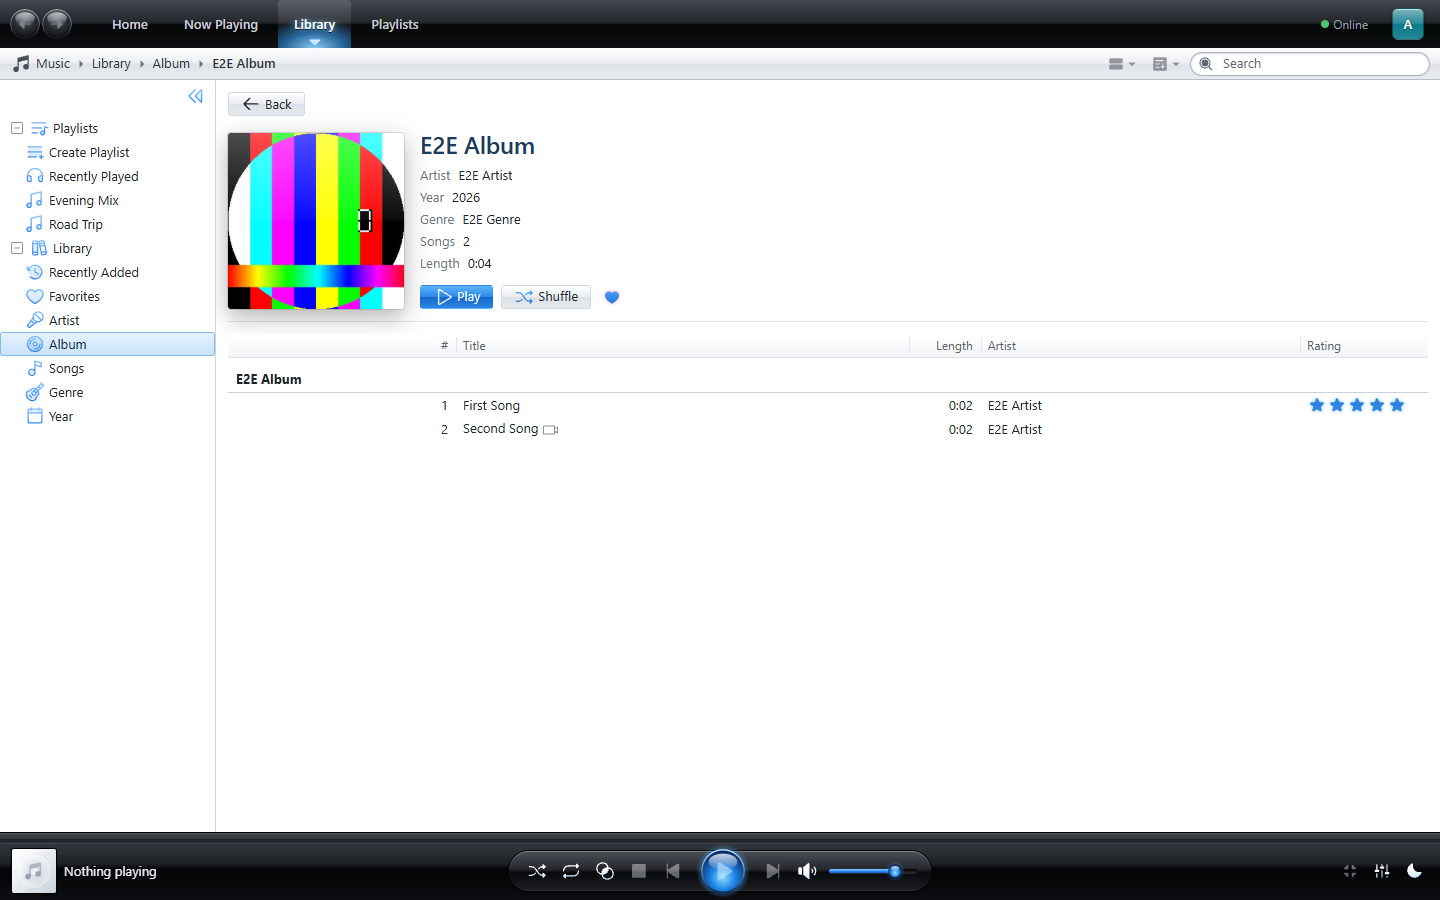
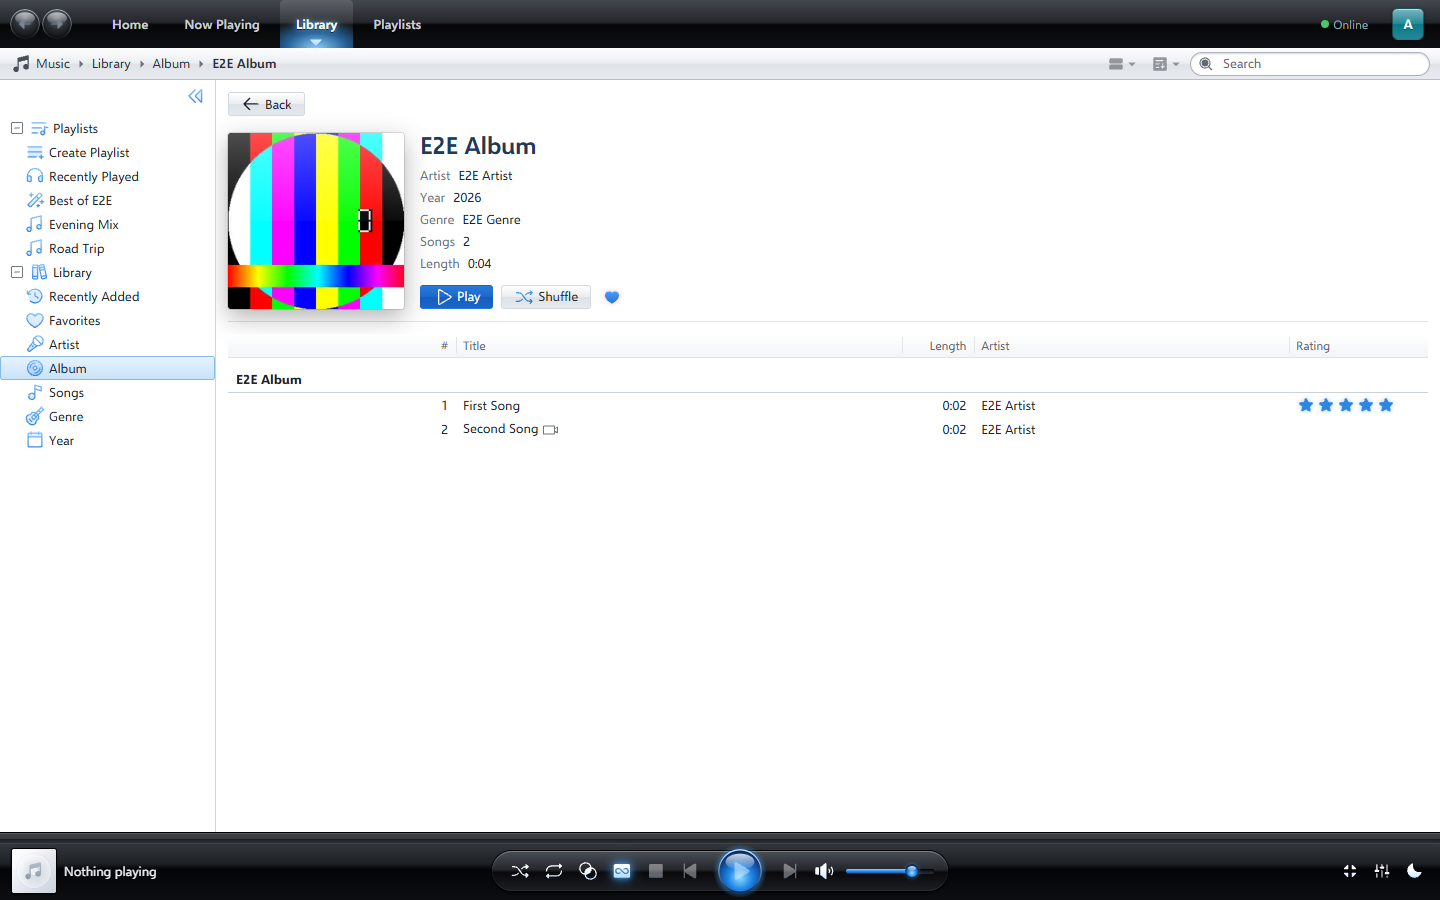
WMP-94: M7 add screenshots of newer features to the README
New README screenshots of the context menu with the rating submenu, a smart playlist, the mini player and adding a media folder; Now Playing shows autoplay. All README screenshots are taken again from a fresh instance. The README also describes clearing the playback state, the media folder filter of genres and years and soft hyphens for translators.

Closes #95

Claude-Session: https://claude.ai/code/session_011yGJ1E3bJeiX54p6natAu7

diff --git a/tests/WaveMP.E2E/screenshots/readme.screenshots.ts b/tests/WaveMP.E2E/screenshots/readme.screenshots.ts
@@ -25,9 +25,9 @@ import {
 } from './helpers'
 
 // The screenshots of the README, taken with the synthetic test media (sine tones and test pictures)
-// and two profiles created for them: Alex with playlists, favorites, ratings and plays, and Sam.
-// They are written to assets/screenshots and replace the files there; the profiles and the export of
-// the database made for the backup page are removed afterwards.
+// and two profiles created for them: Alex with playlists, a smart playlist, favorites, ratings and
+// plays, and Sam. They are written to assets/screenshots and replace the files there; the profiles
+// and the export of the database made for the backup page are removed afterwards.
 
 const outputDirectory = screenshotsDirectory
 const desktop = { width: 1440, height: 900 }
@@ -38,6 +38,19 @@ test.use({ storageState: emptyStorageState, viewport: desktop, deviceScaleFactor
 let alex: TestUser
 let sam: TestUser
 let alexHeaders: Record<string, string>
+
+/**
+ * Closes the offer to continue the playback of an earlier test, which runs in its own browser and
+ * so counts as another device.
+ */
+async function dismissResume(page: Page): Promise<void> {
+    const notice = part(page, 'resume-notice')
+    await notice.waitFor({ timeout: 3000 }).catch(() => undefined)
+    if (await notice.isVisible()) {
+        await notice.locator("[data-part='btn-dismiss-resume']").click()
+        await expect(notice).toBeHidden()
+    }
+}
 
 async function save(page: Page, name: string): Promise<void> {
     await saveAs(page, `${outputDirectory}${name}`)
@@ -58,6 +71,17 @@ test.beforeAll(async ({ request }) => {
     ;[alex, sam] = await createProfiles(request, ['Alex', 'Sam'])
     alexHeaders = await sessionHeaders(request, alex.id)
     await prepareProfile(request, alexHeaders)
+    await send(request, alexHeaders, 'post', '/api/v1/me/smart-playlists', {
+        name: 'Best of E2E',
+        match: 'Any',
+        rules: [
+            { field: 'Rating', operator: 'AtLeast', number: 4 },
+            { field: 'Favorite', operator: 'IsTrue' },
+        ],
+        sort: 'Rating',
+        direction: 'Desc',
+        limit: 50,
+    })
 })
 
 test.afterAll(async ({ request }) => {
@@ -96,7 +120,85 @@ test('now playing', async ({ page, request }) => {
     await pause(page)
     await page.locator("[data-part='app'] a[href='/now-playing']").filter({ visible: true }).click()
     await expect(part(page, 'queue')).toBeVisible()
+    // Autoplay below the queue has chosen the songs that follow the album.
+    await expect(part(page, 'autoplay-item').first()).toBeVisible()
     await save(page, 'now-playing')
+})
+
+test('context menu', async ({ page }) => {
+    await selectProfile(page, alex.name)
+    await page.goto('/library/songs')
+    await dismissResume(page)
+    const row = part(page, 'list-row').filter({ hasText: 'Second Song' }).first()
+    await row.click({ button: 'right' })
+    const menu = page.locator("[data-part='context-menu'][data-state='open']")
+    await expect(menu).toBeVisible()
+    // The submenu of the rating, opened like with the mouse.
+    await menu.locator("[data-part='menu-item'][data-item='rate']").hover()
+    await expect(page.locator("[data-part='context-menu'][data-kind='submenu']")).toBeVisible()
+    await page.waitForTimeout(300)
+    await page.screenshot({ path: `${outputDirectory}context-menu.png` })
+})
+
+test('smart playlist', async ({ page, request }) => {
+    await selectProfile(page, alex.name)
+    const smart = await request.get('/api/v1/me/smart-playlists?limit=100', {
+        headers: alexHeaders,
+    })
+    const id = ((await smart.json()).items as { id: string; name: string }[]).find(
+        (item) => item.name === 'Best of E2E',
+    )!.id
+    await page.goto(`/playlists/smart/${id}/edit`)
+    await dismissResume(page)
+    await expect(part(page, 'smart-rule')).toHaveCount(2)
+    await save(page, 'smart-playlist')
+})
+
+test('mini player', async ({ page, request }) => {
+    // The mini player in the window of the app, as in browsers without floating windows; in
+    // Chromium it opens in a window of its own.
+    await page.addInitScript(() => {
+        delete (window as { documentPictureInPicture?: unknown }).documentPictureInPicture
+    })
+    await selectProfile(page, alex.name)
+    await page.goto(`/library/albums/${await findAlbumId(request, 'E2E Album')}`)
+    await part(page, 'detail-actions').locator("[data-item='play']").click()
+    await expect(part(page, 'now-playing-title').filter({ visible: true }).first()).toHaveText(
+        'First Song',
+    )
+    await pause(page)
+    await part(page, 'btn-compact').click()
+    const player = page.locator("[data-part='compact-player-panel']")
+    await expect(player).toBeVisible()
+    await page.mouse.move(0, 0)
+    await page.evaluate(() => (document.activeElement as HTMLElement | null)?.blur())
+    await page.waitForTimeout(500)
+    // Only the player with its shadow, not the empty window around it.
+    const box = (await player.boundingBox())!
+    const margin = 32
+    await page.screenshot({
+        path: `${outputDirectory}mini-player.png`,
+        clip: {
+            x: box.x - margin,
+            y: box.y - margin,
+            width: box.width + 2 * margin,
+            height: box.height + 2 * margin,
+        },
+    })
+})
+
+test('media folders', async ({ browser }) => {
+    const page = await adminPage(browser)
+    await page.goto('/admin/library')
+    await expect(page.locator("[data-part='source-item']").first()).toBeVisible()
+    await page.locator("[data-part='section'][data-item='media-sources']").scrollIntoViewIfNeeded()
+    await page.locator("[data-item='add-source']").click()
+    const dialog = page.locator("dialog[data-part='dialog'][open]")
+    await dialog.getByLabel('Name').fill('Music videos')
+    await dialog.getByLabel('Folder in the container').fill('/videos')
+    await save(page, 'admin-media-folders')
+    await dialog.getByRole('button', { name: 'Cancel' }).click()
+    await page.context().close()
 })
 
 test('visualization A-Force', async ({ page, request }) => {

diff --git a/README.md b/README.md
@@ -55,8 +55,12 @@ WaveMP brings back the glossy, glassy look of the classic desktop media players 
 | **Home** with your playlists, the songs you played recently and new albums | **A-Force**, one of WaveMP's own visualizations |
 | ![The visualization BlackCap on Now Playing](assets/screenshots/visualization-blackcap.png) | ![A classic Milkdrop preset on Now Playing](assets/screenshots/visualization-milkdrop.png) |
 | **BlackCap**, the calm 3D visualization | Classic **Milkdrop** presets |
-| ![Now Playing with the cover and the queue](assets/screenshots/now-playing.png) | ![The page of an album](assets/screenshots/album.png) |
-| **Now Playing** with cover and queue | An **album** with its songs |
+| ![Now Playing with the cover, the queue and the songs of autoplay](assets/screenshots/now-playing.png) | ![The page of an album](assets/screenshots/album.png) |
+| **Now Playing** with cover, queue and **autoplay**, which keeps the music going with similar songs | An **album** with its songs |
+| ![The context menu of a song with the submenu for the rating](assets/screenshots/context-menu.png) | ![The rules of a smart playlist](assets/screenshots/smart-playlist.png) |
+| The **context menu** of a song, here rating it | A **smart playlist** that fills itself from rules |
+| ![The mini player with cover and controls](assets/screenshots/mini-player.png) | ![Adding a second media folder in the administration](assets/screenshots/admin-media-folders.png) |
+| The **mini player** for the corner of the screen | Several **media folders**, for example one for music videos |
 | ![The profile selection](assets/screenshots/profiles.png) | ![The backups in the administration](assets/screenshots/admin-backups.png) |
 | **Profiles** instead of a login | **Administration** of the daily backups |
 
@@ -246,7 +250,7 @@ Then open **Administration > Library**. Under **Media folders**, an admin adds a
 - A new or moved folder is scanned at once. Each folder is scanned and watched on its own; a folder that is missing or cannot be read is skipped and shown as a problem of the scan, and the songs of the other folders stay as they are.
 - Switching a folder off keeps its songs in the library, but they are no longer updated. Removing a folder removes its songs with their ratings, favorites and playlist entries from the library; the files themselves stay untouched.
 - Files of one song still belong together by their base name in the same folder (see [Organizing Your Media](#organizing-your-media)), so the files of a song cannot be spread over two media folders.
-- As soon as there is more than one media folder, the songs, recently added songs, albums and artists of the library can be filtered by media folder.
+- As soon as there is more than one media folder, the songs, recently added songs, albums, artists, genres and years of the library can be filtered by media folder.
 
 ### Media folder access
 
@@ -494,7 +498,7 @@ The core data of MusicBrainz is in the public domain (CC0). The covers in the Co
 23. **Autoplay.** When the queue has ended and repeat is off, autoplay goes on with similar songs until you stop. It chooses more songs of the artists in the list (artists that appear more often come more often), and when they run out songs of the same genres from similar decades. Your favorites and songs with four or five stars come a little more often, songs with one star never, and songs you played in the last 24 hours only when nothing else is left. Songs that only have a music video are included; turn that off under **Settings > Include songs that only have a music video**. **Now Playing** shows the next songs under **Autoplay** below the queue: choose one to play it at once (skipping those before it), remove a song with its button, or turn autoplay off there. The autoplay button in the transport bar, between crossfade and stop (in the expanded player on smartphones), switches it on and off. Autoplay is on for every profile until you turn it off, here or under **Settings > Autoplay**; the choice is stored with your profile and applies on all devices. Songs you add to the queue come before the songs of autoplay.
 24. **Sleep timer.** The moon button in the transport bar stops the music after 15 to 120 minutes, at the end of the current song or at the end of the queue; the button shows the remaining time, and **Off** cancels it. Shortly before the stop the music fades out (ten seconds by default, set under **Settings > Sleep timer fade-out**), then the player pauses. The timer runs on the device that plays and is not stored.
 25. **Mini player.** The compact mode button at the right of the transport bar (desktop) opens the mini player: cover, title, artist, progress, previous, play and pause, next and the volume of the running song, and its music video while the **Video** view is chosen on **Now Playing**. In Chrome and Edge it is a small floating window that stays above your other windows, so you can control the music while you work in other programs; you can resize it, and it shows the cover beside the controls when it is wide. The music keeps playing in the WaveMP window, so leave that window open. Other browsers, such as Firefox and Safari, show the mini player in the WaveMP window instead, with nothing else around it; make the window small to keep it at hand. The button again, the button in the mini player or Escape closes it.
-26. **Continue where you stopped.** WaveMP remembers for each profile what you listened to: the queue, the song and the position in it, shuffle, repeat and the album or playlist it came from. After a reload or the next start the player shows that song paused at its position; **Play** goes on from there. The state follows your profile to your other devices: open WaveMP on another device and it shows **Continue listening from** the device you listened on last (for example *Firefox · Windows*); **Continue** plays on there. The device that changed the state last wins; a device that comes back to the front while it is paused takes over a newer state of another device.
+26. **Continue where you stopped.** WaveMP remembers for each profile what you listened to: the queue, the song and the position in it, shuffle, repeat and the album or playlist it came from. After a reload or the next start the player shows that song paused at its position; **Play** goes on from there. The state follows your profile to your other devices: open WaveMP on another device and it shows **Continue listening from** the device you listened on last (for example *Firefox · Windows*); **Continue** plays on there. The device that changed the state last wins; a device that comes back to the front while it is paused takes over a newer state of another device. To start over, **Settings > Playback state > Clear playback state** stops the player of this device, empties its queue and forgets the saved state, so every device starts with an empty player; a device that is still playing saves its queue again.
 27. **Use the keyboard.** On a computer or a tablet with a keyboard, WaveMP reacts to these keys:
 
     | Key | Action |
@@ -590,12 +594,13 @@ A few rules keep the translations working:
 - Keep the placeholders in curly braces exactly as they are, for example `{name}` or `{count}`; WaveMP replaces them with names and numbers. Weblate marks a translation that changes them.
 - Do not use HTML or the characters `<`, `>`, `@`, `|` and `$`; they have a special meaning for the translation library of the web app. The checks of the pull request reject them.
 - The key of a text (for example `settings.languageHint`) tells where it appears; the English text is the reference. Weblate shows both, and maintainers add explanations to texts that need them.
+- Long compound words in short labels may get soft hyphens (U+00AD, written as `\u00ad` in the files) between two letters, for example `Wieder\u00adgabe`; the browser breaks the word there with a hyphen when the label needs a second line and shows nothing otherwise.
 
 ### Translation files
 
 The web app has one JSON file per language in `source/WaveMP.Web/src/locales`, named after its BCP 47 language tag (`en.json`, `de.json`, `pt-BR.json`, `zh-Hans.json`). `en.json` is the source: every text of the app is added there first, with a camelCase key nested by area. The build includes every file in the folder, so a new file adds its language to the selection without further changes; a language with a region falls back to the language without it (`de-AT` shows `de`), and every language falls back to English. The texts never use plural forms: numbers stand in phrases that fit every count, like `Songs: {count}`.
 
-The unit tests of the web app check every file: its name is a valid language tag, it has no keys that `en.json` lacks, no empty texts, the same placeholders as English and no markup. English and German are maintained with the code and must always be complete; the other languages may be incomplete.
+The unit tests of the web app check every file: its name is a valid language tag, it has no keys that `en.json` lacks, no empty texts, the same placeholders as English, no markup and soft hyphens only between two letters. English and German are maintained with the code and must always be complete; the other languages may be incomplete.
 
 The profiles store their language as language tag through the API (`language` in `/api/v1/me/settings`). The server accepts any valid tag, so other clients can offer languages the web app does not have yet; the web app shows English for those.
 
